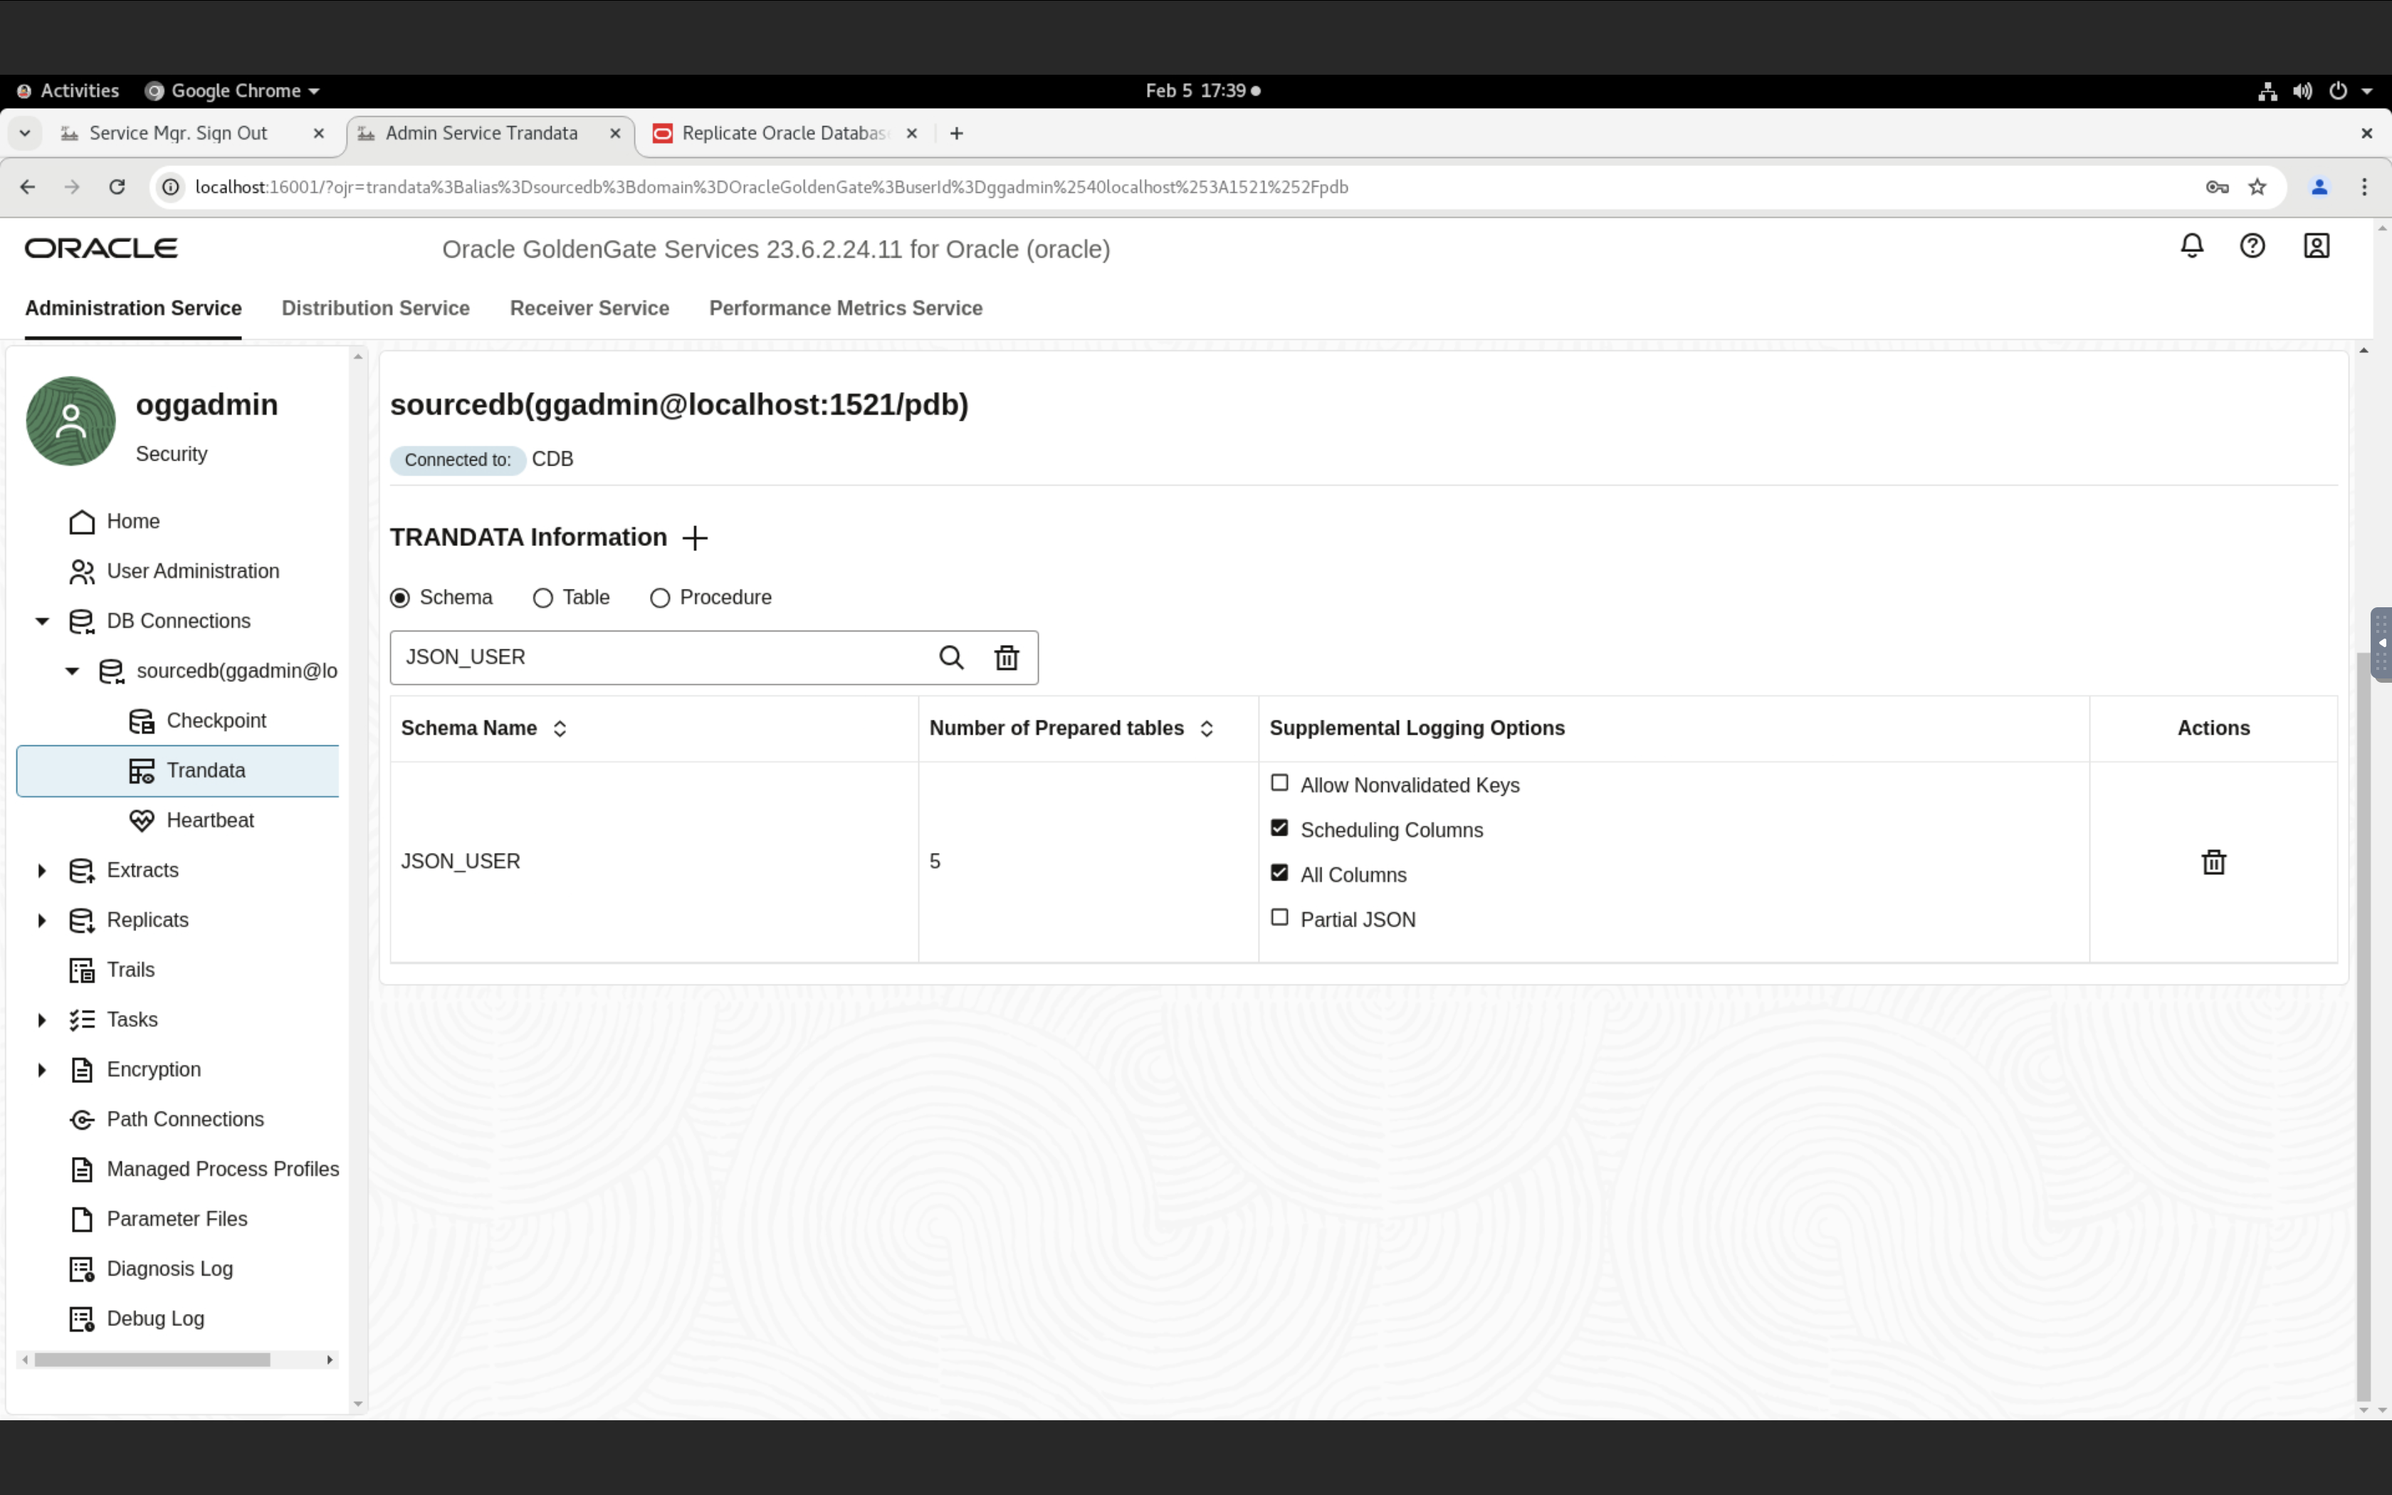
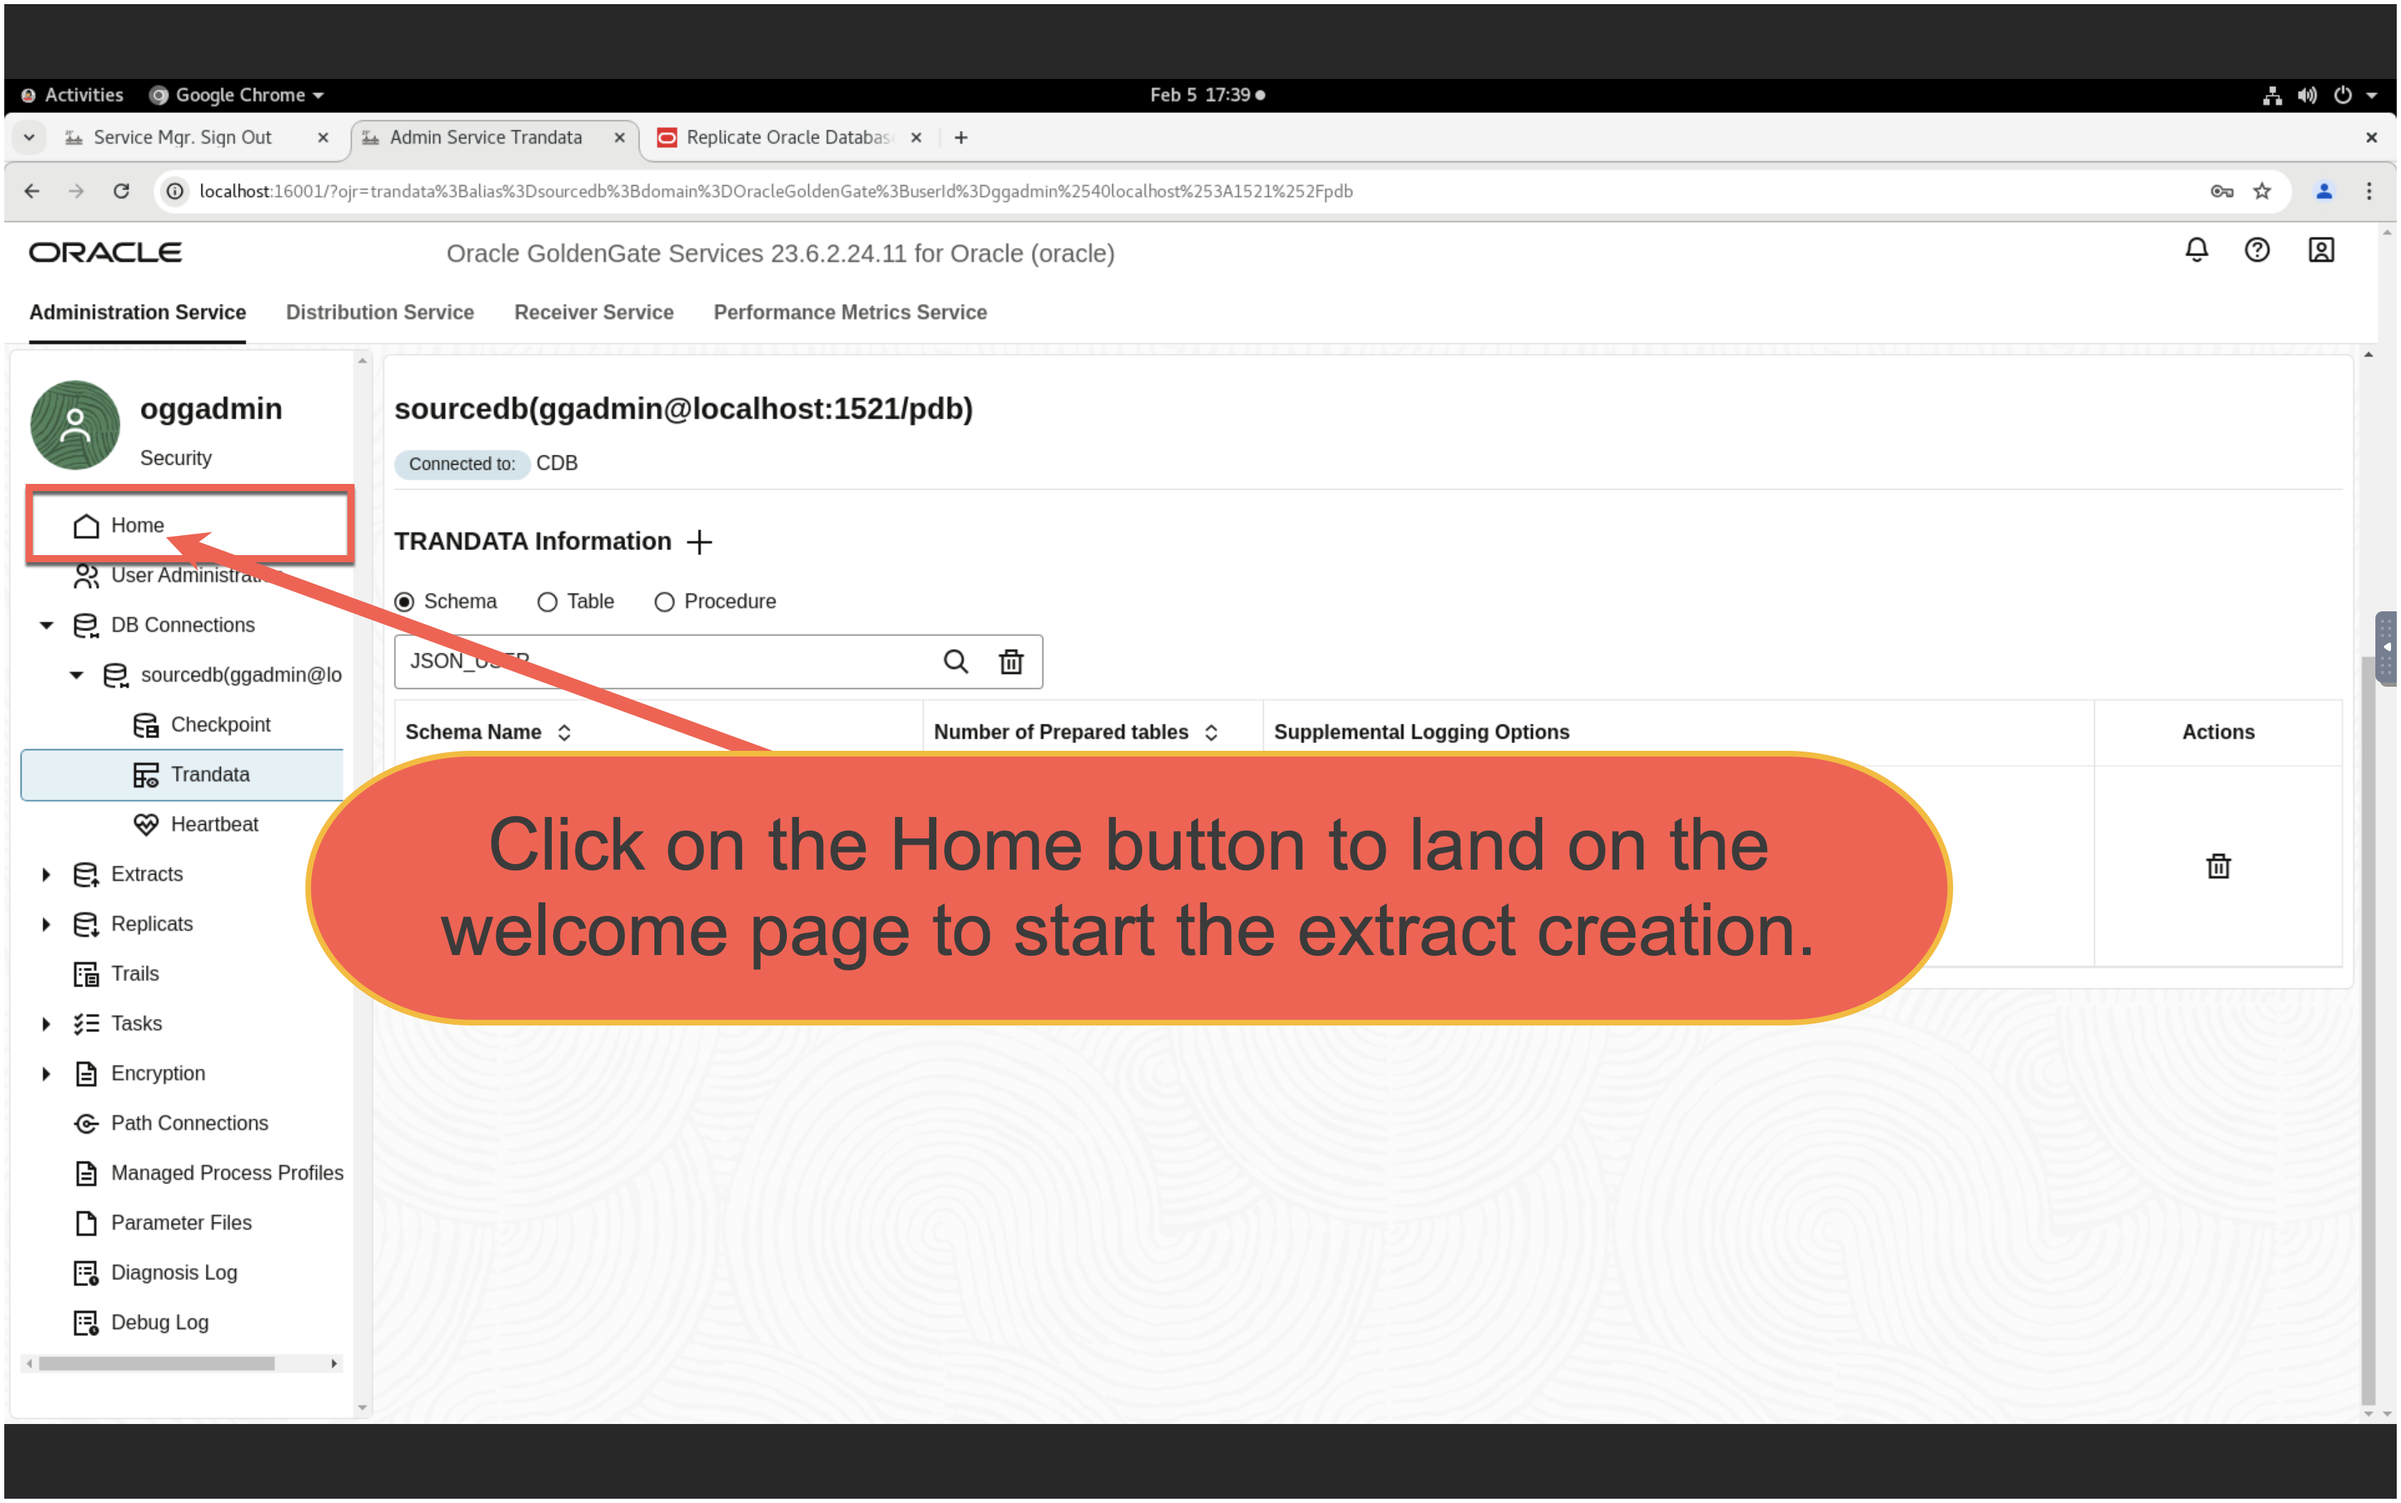
10feb2025-update
10feb2025-update

diff --git a/ogg-json/ora-to-json/ora-to-json.md b/ogg-json/ora-to-json/ora-to-json.md
@@ -180,11 +180,11 @@ This lab assumes you have:
 5. To validate the supplemental logging for the schema ***JSON_USER*** follow below the instructions.
   - Select radio button as ***Schema***
   - Type schema name as ***JSON_USER*** and press ***Enter*** on key board.
-  ![add-trandata-info](./images/add-trandata-info.png " ")
+  ![add-trandata-info](./images/home-page.png " ")
 
 ## Task 4: Create an Extract and trail file in Oracle GoldenGate.
 1. Click on the ***Home*** button to land on the welcome page to start the extract creation.
-  ![switch to Welcome Page](./images/home-page.png " ")
+  ![switch to Welcome Page](./images/home-pageadd-trandata-info.png " ")
 2. On welcome page, Click on the **Add Extract** (***+*** plus icon) to get the extract creation wizard.
 
     Extract is a process that runs agains the source data source connection and extracts, or captures, data. Learn to add an Extract for Oracle Database, OCI Autonomous Databases, Oracle Exadata, and Amazon RDS for Oracle technologies.
